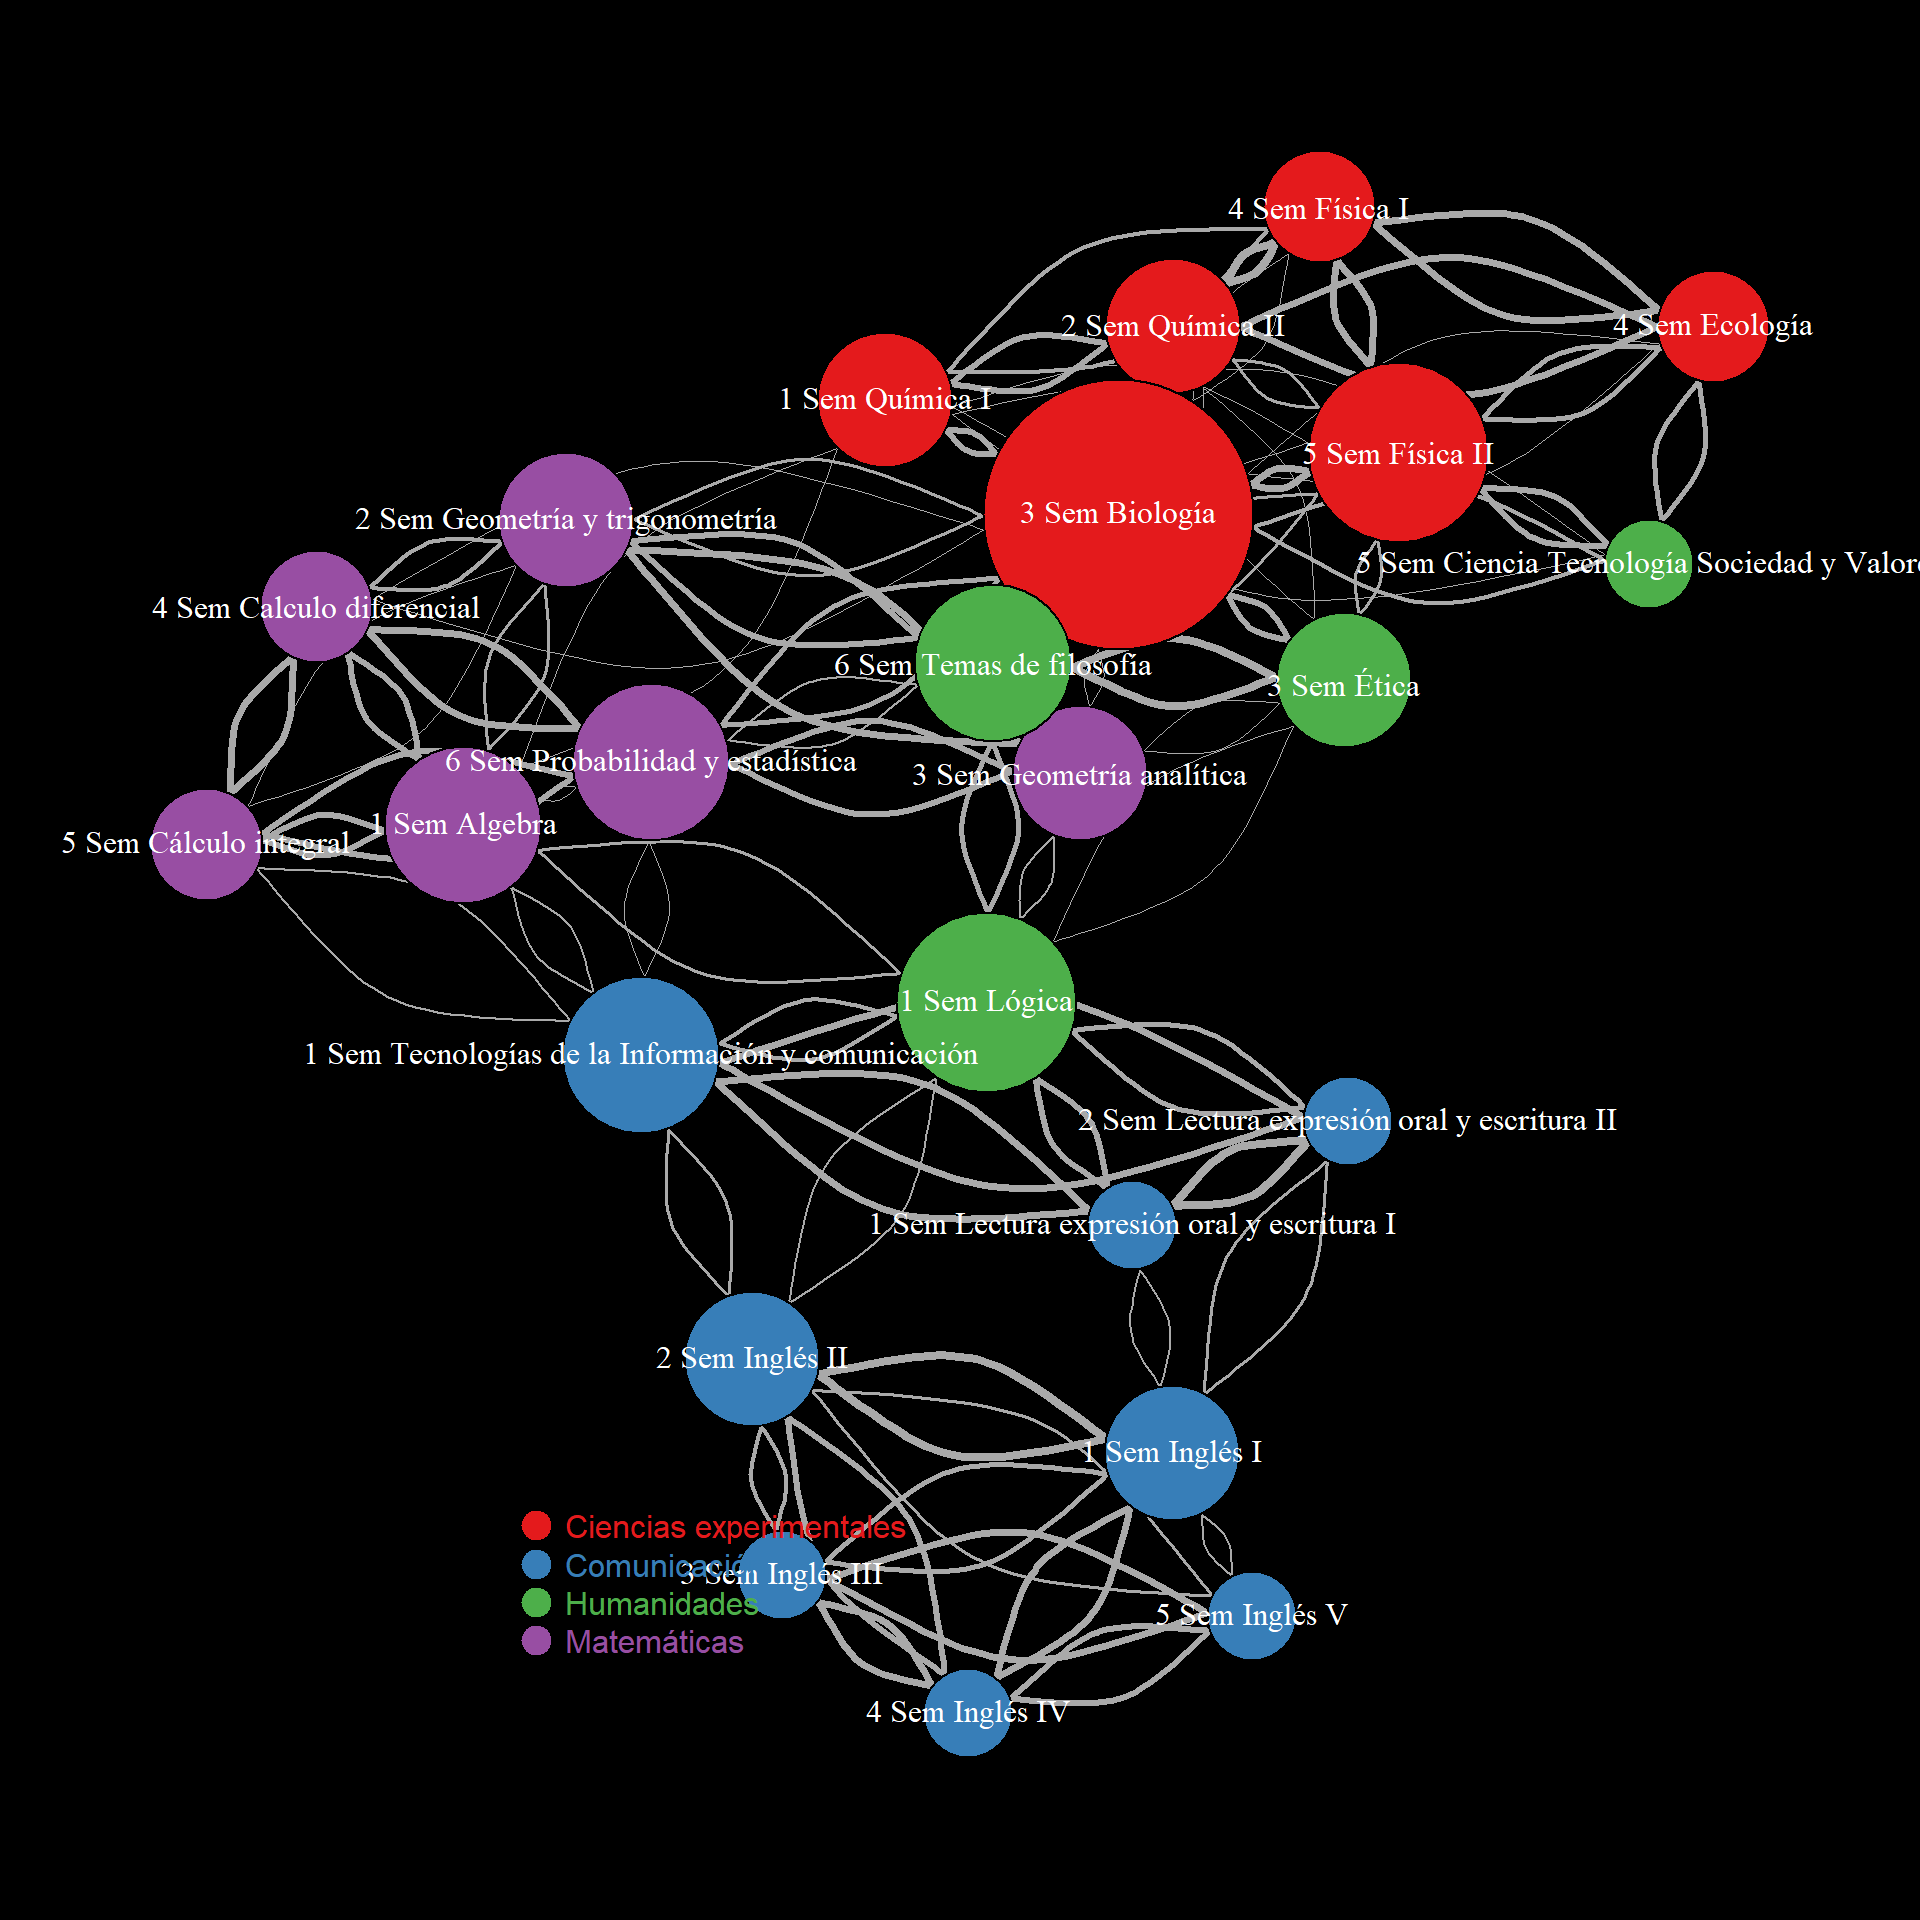
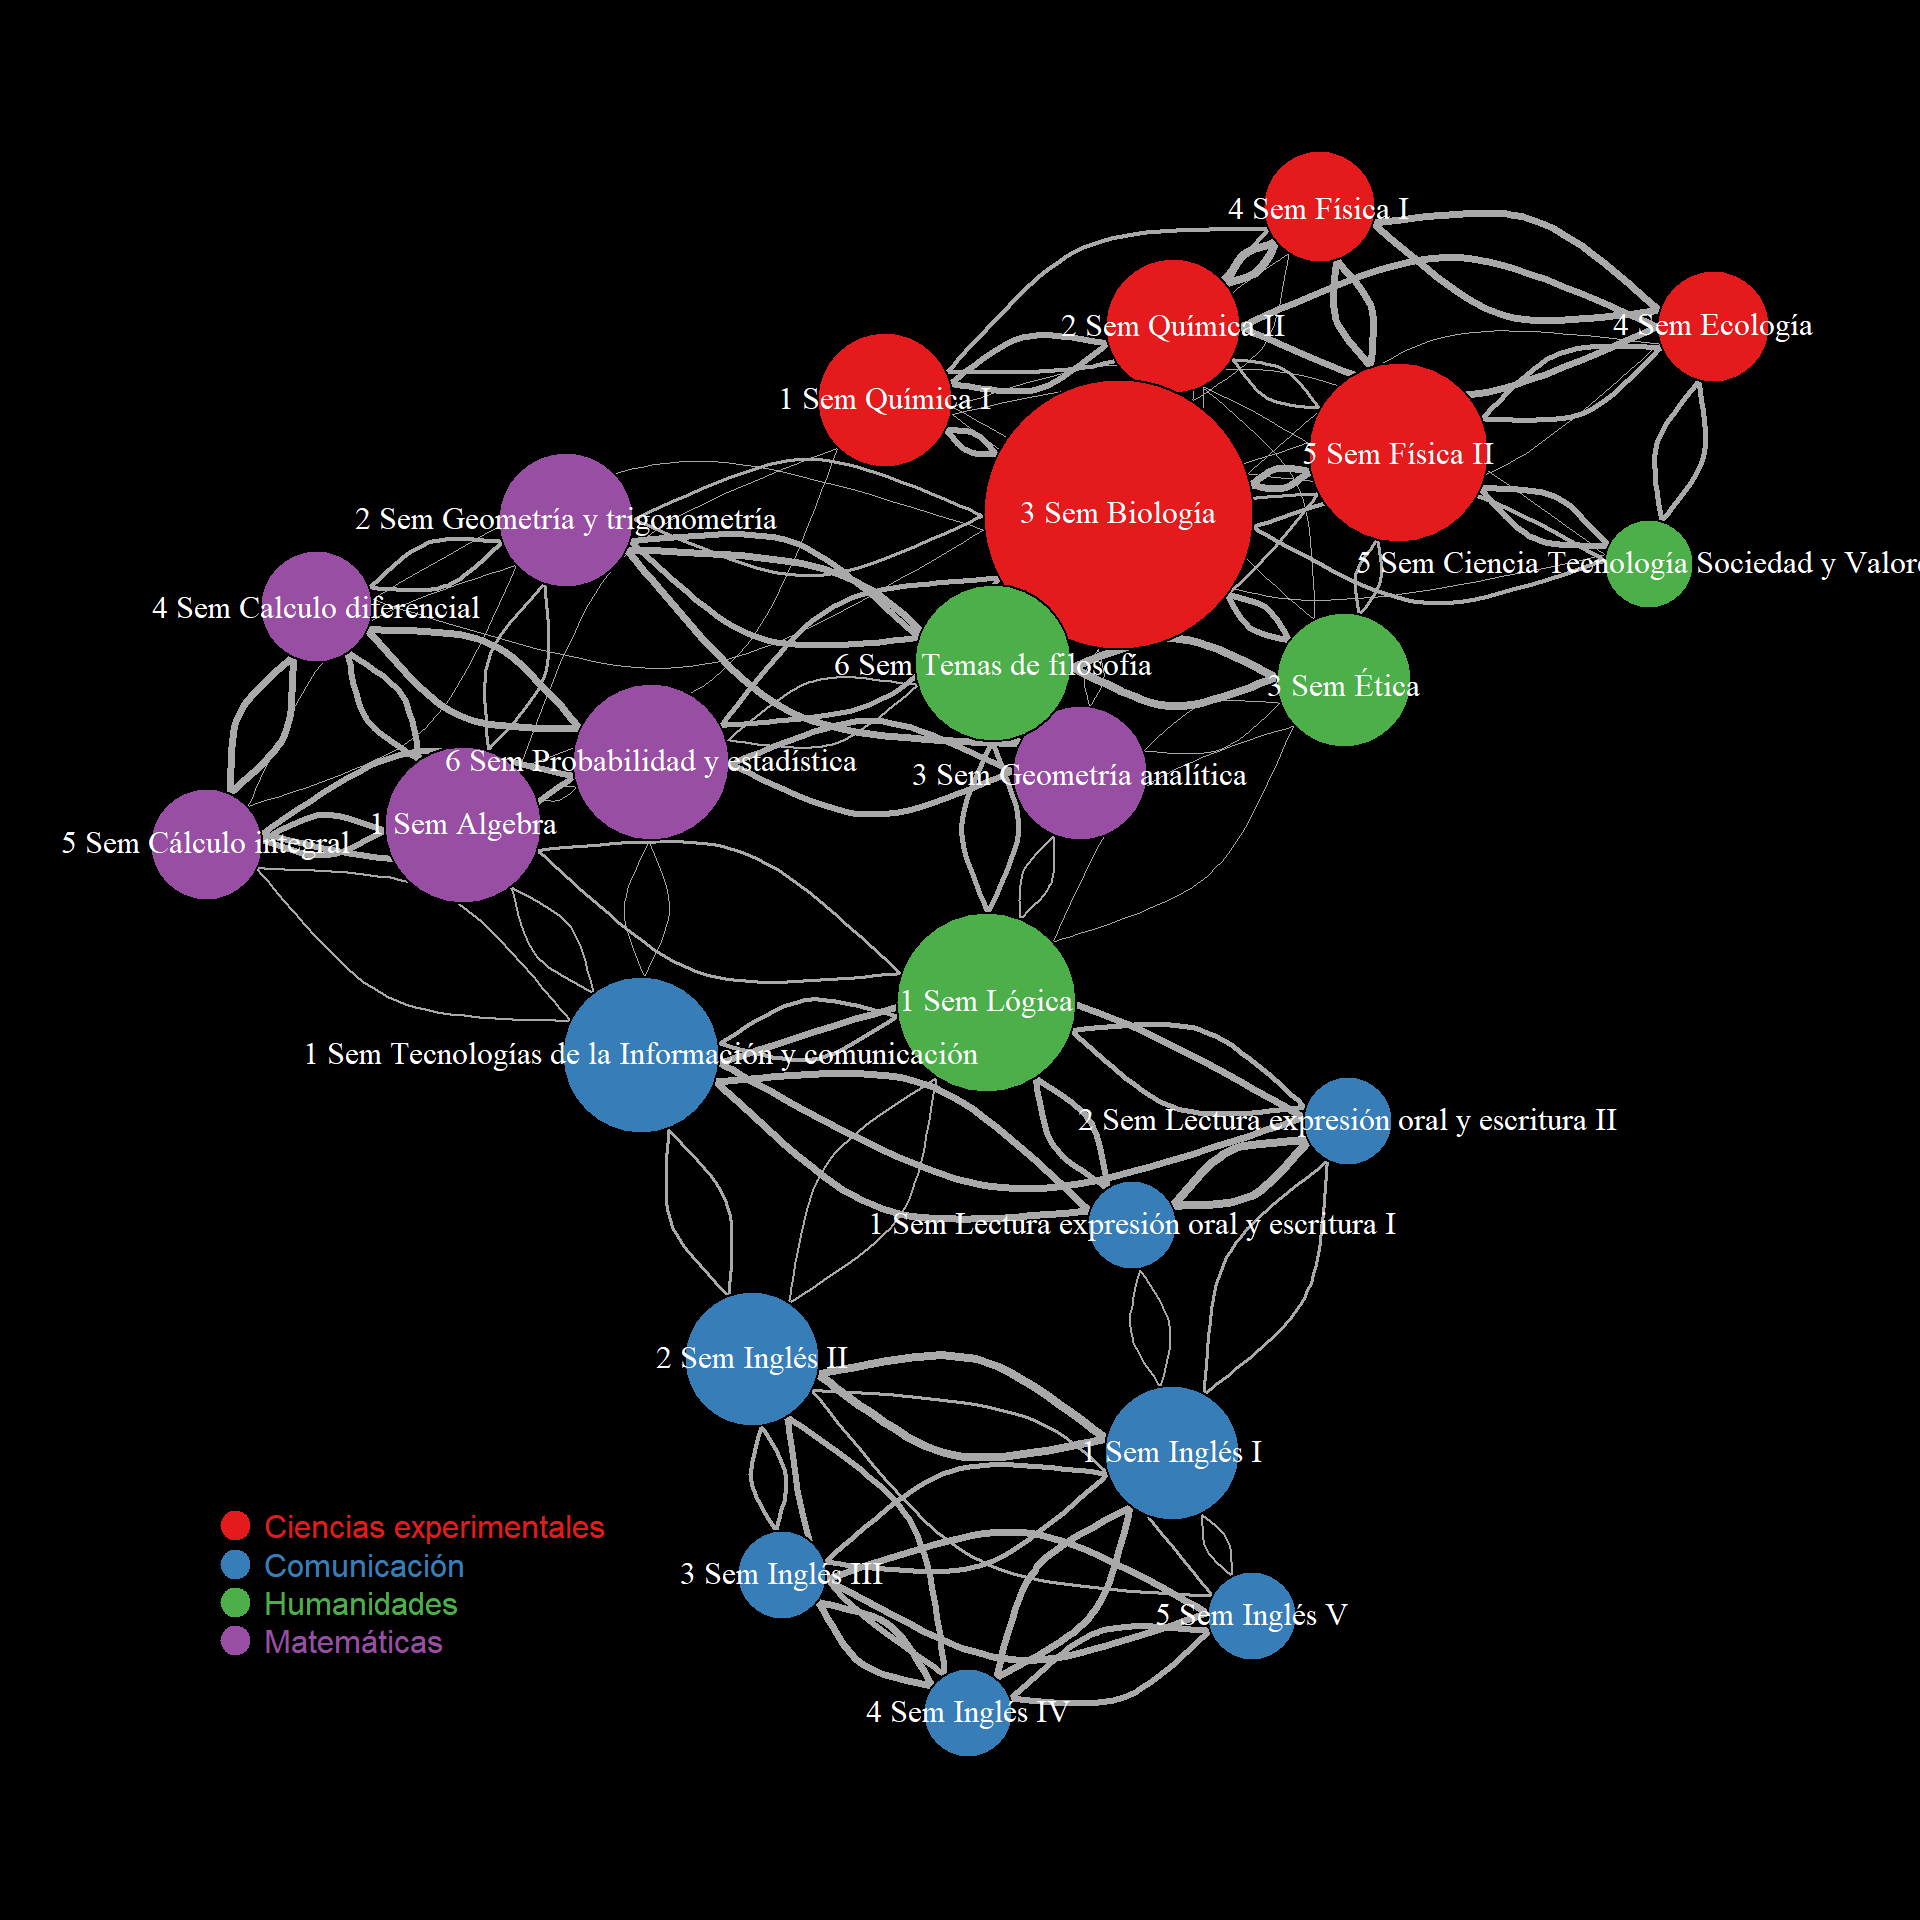
1) Improved main title for netwoeks 2) Change legend posisiton for both consensus networks

Changed region(s): [[0.0938, 0.7812, 0.4688, 0.875]]

diff --git a/docs/network.html b/docs/network.html
@@ -11,7 +11,7 @@
 
 
 
-<title>Transversalidad de conocimientos de los programas educativos</title>
+<title>Transversalidad de conocimientos</title>
 
 <script src="site_libs/jquery-1.11.3/jquery.min.js"></script>
 <meta name="viewport" content="width=device-width, initial-scale=1" />
@@ -289,7 +289,7 @@ $(document).ready(function () {
 
 
 
-<h1 class="title toc-ignore">Transversalidad de conocimientos de los programas educativos</h1>
+<h1 class="title toc-ignore">Transversalidad de conocimientos</h1>
 
 </div>
 
